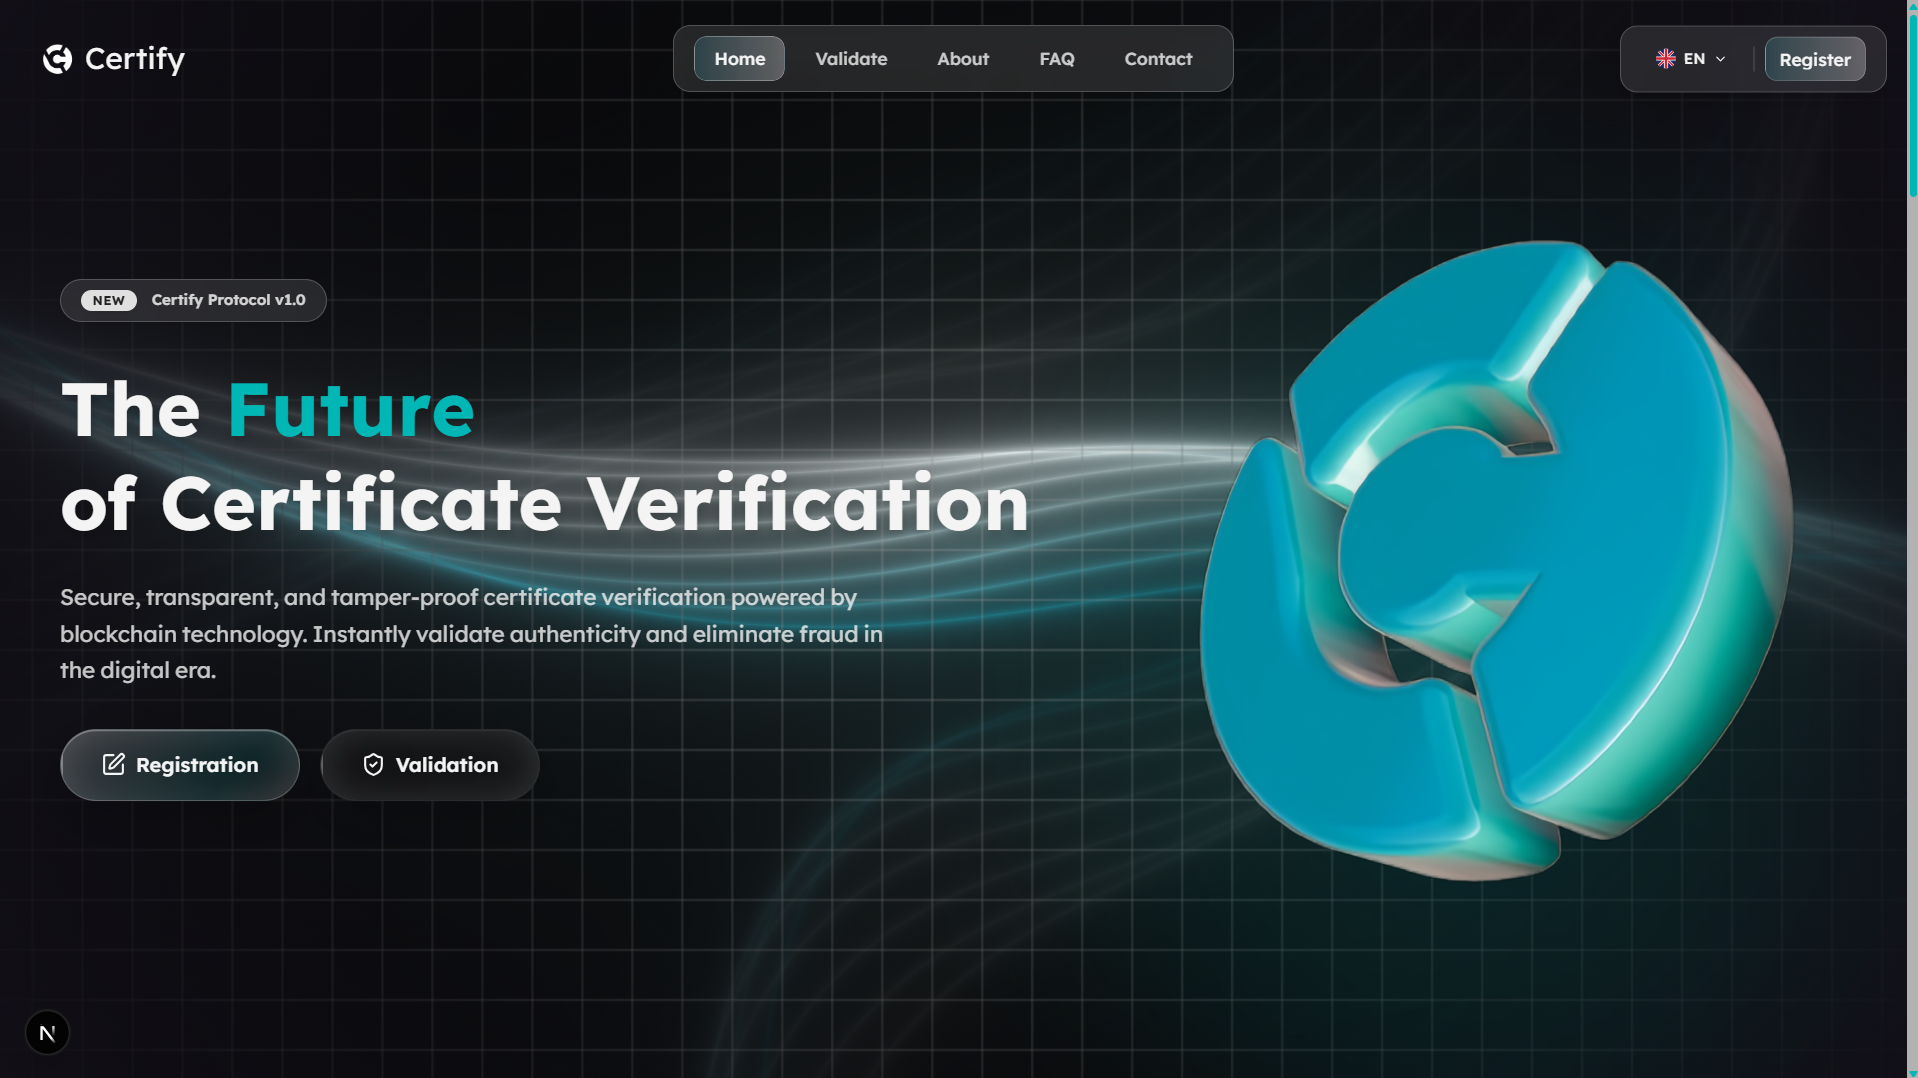
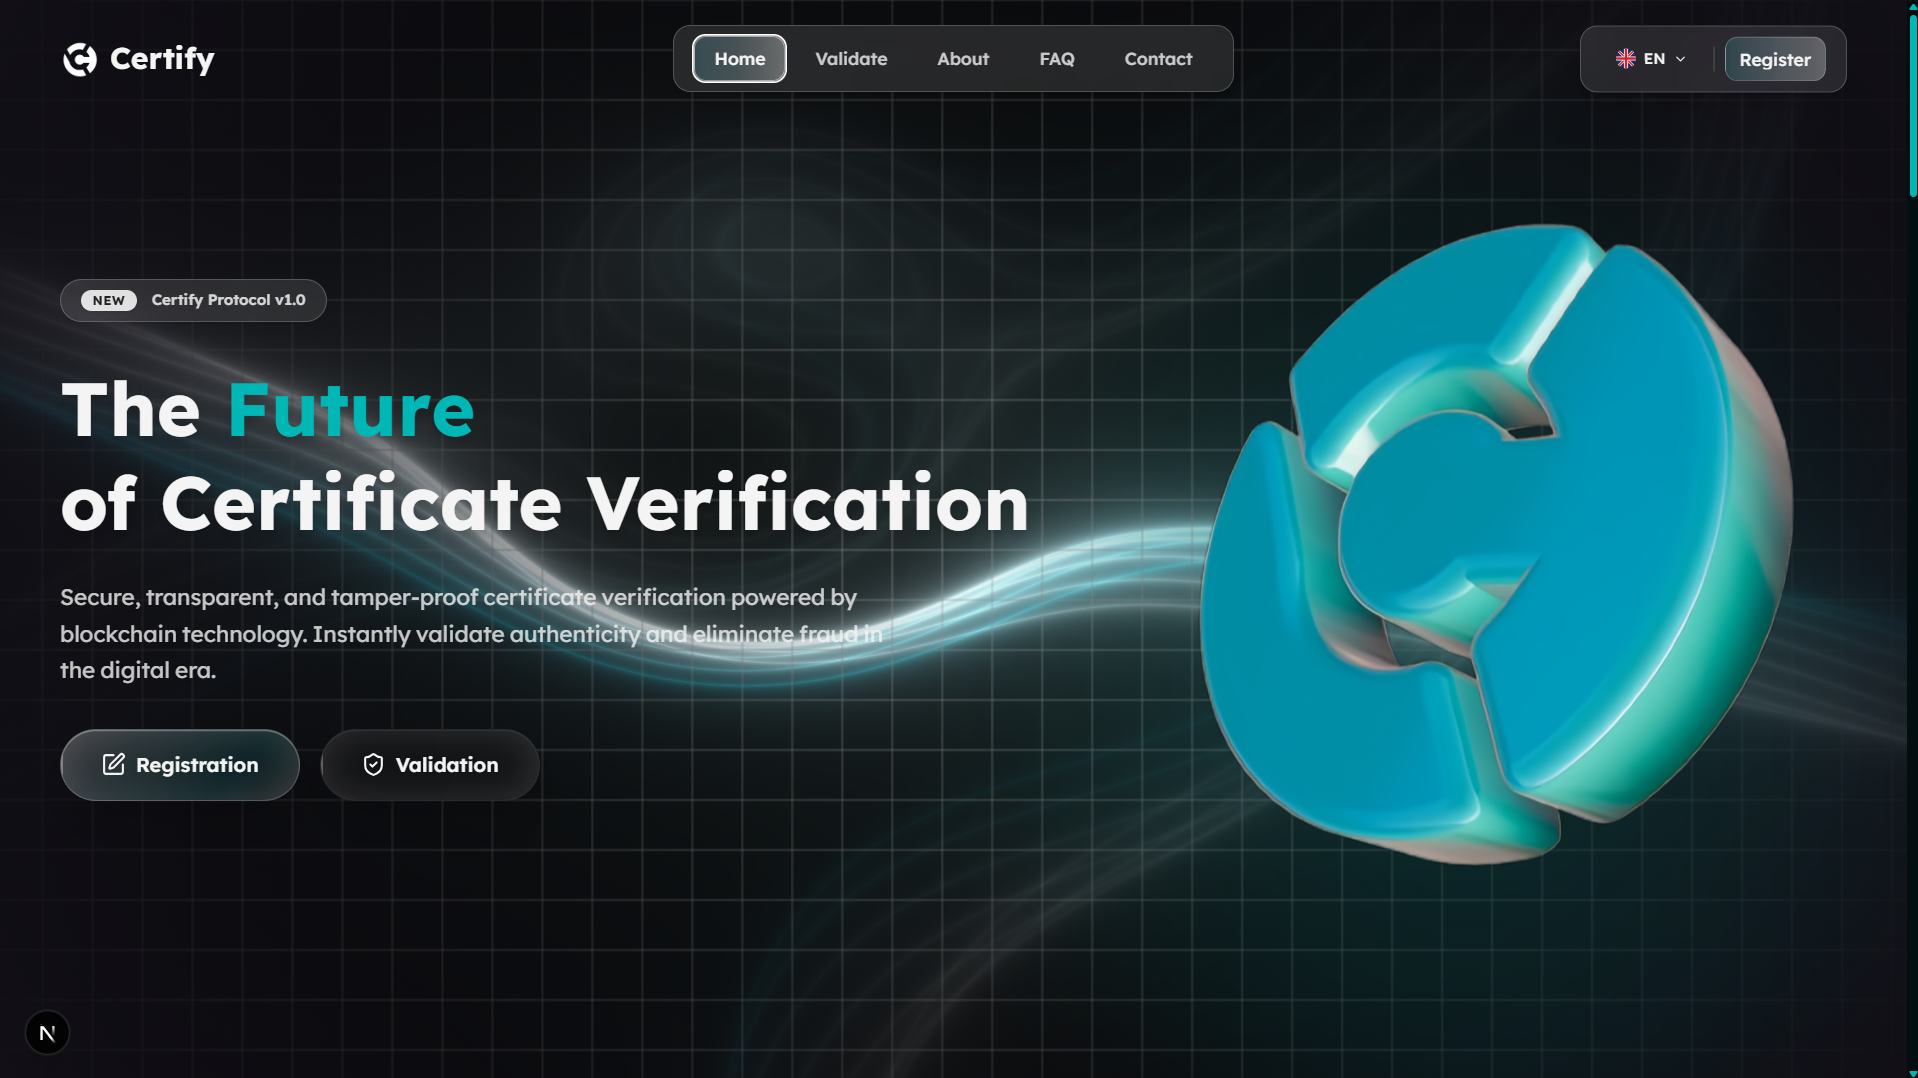
final

diff --git a/src/app/register/page.js b/src/app/register/page.js
@@ -1,7 +1,7 @@
 "use client";
 
 import { useState } from "react";
-import { ChevronLeft, Mail, CalendarIcon, Check, Copy, X } from "lucide-react";
+import { ArrowLeft, ChevronLeft, Mail, CalendarIcon, Check, Copy, X } from "lucide-react";
 import Link from "next/link";
 import { addDays, format } from "date-fns";
 import { Button } from "@/components/ui/button";
@@ -534,15 +534,20 @@ export default function RegisterPage() {
 
   return (
     <div className="min-h-screen flex flex-col items-center justify-start px-4 pt-28 pb-8 bg-transparent relative overflow-x-hidden w-full">
-      <div className="w-full max-w-6xl flex items-start mb-3">
+      <motion.div
+        className="w-full max-w-6xl mb-8 relative z-10"
+        initial={{ opacity: 0, x: -24, filter: "blur(8px)" }}
+        animate={{ opacity: 1, x: 0, filter: "blur(0px)" }}
+        transition={{ duration: 0.7, ease: [0.22, 1, 0.36, 1] }}
+      >
         <Link
           href="/"
-          className="flex items-center gap-1 text-[#F4F4F4]/70 text-sm hover:text-[#00b7b5] transition-colors"
+          className="inline-flex items-center gap-2 text-sm text-[#F4F4F4]/60 hover:text-[#00B7B5] transition-colors duration-200 group font-poppins"
         >
-          <ChevronLeft size={16} />
+          <ArrowLeft className="w-4 h-4 group-hover:-translate-x-1 transition-transform duration-200" />
           {t("register.backToHome")}
         </Link>
-      </div>
+      </motion.div>
 
       <motion.form
         onSubmit={handleSubmit}

diff --git a/src/app/upload/page.js b/src/app/upload/page.js
@@ -1,7 +1,7 @@
 "use client";
 
 import { useState, useRef, useCallback } from "react";
-import { ChevronLeft, FileText, Upload, X, CheckCircle2, ShieldCheck, Hash, Info } from "lucide-react";
+import { ArrowLeft, ChevronLeft, FileText, Upload, X, CheckCircle2, ShieldCheck, Hash, Info } from "lucide-react";
 import Link from "next/link";
 import { motion, AnimatePresence } from "framer-motion";
 import { useLanguage } from "../../context/LanguageContext";
@@ -197,15 +197,20 @@ export default function UploadPage() {
 
   return (
     <div className="min-h-screen flex flex-col items-center justify-start px-4 pt-28 pb-10 lg:pb-36 bg-transparent relative">
-      <div className="w-full max-w-3xl flex items-start mb-3">
+      <motion.div
+        className="w-full max-w-3xl mb-8 relative z-10"
+        initial={{ opacity: 0, x: -24, filter: "blur(8px)" }}
+        animate={{ opacity: 1, x: 0, filter: "blur(0px)" }}
+        transition={{ duration: 0.7, ease: [0.22, 1, 0.36, 1] }}
+      >
         <Link
           href="/"
-          className="flex items-center gap-1 text-[#F4F4F4]/70 text-sm hover:text-[#00b7b5] transition-colors"
+          className="inline-flex items-center gap-2 text-sm text-[#F4F4F4]/60 hover:text-[#00B7B5] transition-colors duration-200 group font-poppins"
         >
-          <ChevronLeft size={16} />
+          <ArrowLeft className="w-4 h-4 group-hover:-translate-x-1 transition-transform duration-200" />
           {t("upload.backToHome")}
         </Link>
-      </div>
+      </motion.div>
 
       <motion.h1
         initial={{ opacity: 0, y: -16 }}

diff --git a/src/app/privacy/page.js b/src/app/privacy/page.js
@@ -24,14 +24,14 @@ export default function PrivacyPage() {
     <main className="min-h-screen flex flex-col items-center px-4 sm:px-6 lg:px-8 pt-28 pb-20">
 
       <motion.div
-        className="w-full max-w-4xl mb-8"
+        className="w-full max-w-4xl mb-8 relative z-10"
         initial={{ opacity: 0, x: -24, filter: "blur(8px)" }}
         animate={{ opacity: 1, x: 0, filter: "blur(0px)" }}
         transition={{ duration: 0.7, ease: [0.22, 1, 0.36, 1] }}
       >
         <Link
           href="/"
-          className="inline-flex items-center gap-2 text-sm text-[#F4F4F4]/60 hover:text-[#00B7B5] transition-colors duration-200 group"
+          className="inline-flex items-center gap-2 text-sm text-[#F4F4F4]/60 hover:text-[#00B7B5] transition-colors duration-200 group font-poppins"
         >
           <ArrowLeft className="w-4 h-4 group-hover:-translate-x-1 transition-transform duration-200" />
           {t("privacy.backToHome")}

diff --git a/src/app/terms/page.js b/src/app/terms/page.js
@@ -24,14 +24,14 @@ export default function TermsPage() {
     <main className="min-h-screen flex flex-col items-center px-4 sm:px-6 lg:px-8 pt-28 pb-20">
 
       <motion.div
-        className="w-full max-w-4xl mb-8"
+        className="w-full max-w-4xl mb-8 relative z-10"
         initial={{ opacity: 0, x: -24, filter: "blur(8px)" }}
         animate={{ opacity: 1, x: 0, filter: "blur(0px)" }}
         transition={{ duration: 0.7, ease: [0.22, 1, 0.36, 1] }}
       >
         <Link
           href="/"
-          className="inline-flex items-center gap-2 text-sm text-[#F4F4F4]/60 hover:text-[#00B7B5] transition-colors duration-200 group"
+          className="inline-flex items-center gap-2 text-sm text-[#F4F4F4]/60 hover:text-[#00B7B5] transition-colors duration-200 group font-poppins"
         >
           <ArrowLeft className="w-4 h-4 group-hover:-translate-x-1 transition-transform duration-200" />
           {t("terms.backToHome")}